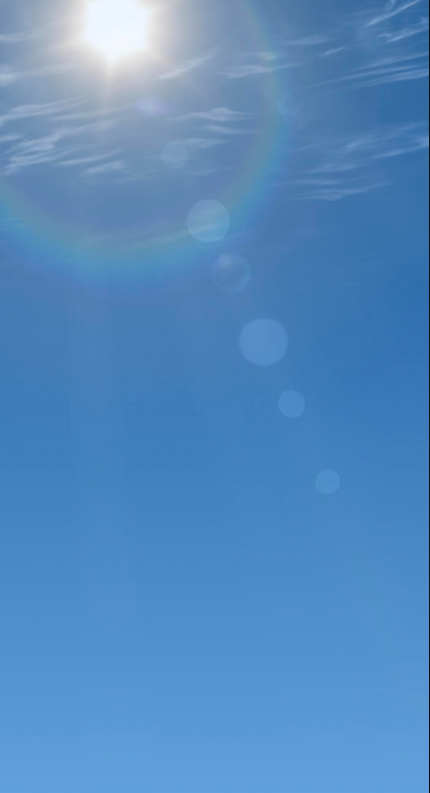
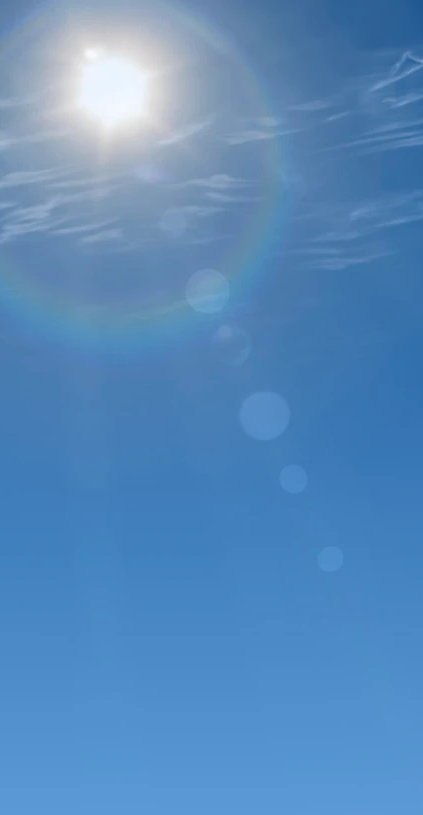
Changement du switch, il sert juste à récupérer le code du temps pour afficher les background, plus simple comme ça

diff --git a/scripts/utils/backgroundImg.js b/scripts/utils/backgroundImg.js
@@ -5,51 +5,45 @@ export default function backgroundImg(description, icon) {
   const clearSky = "./assets/clearsky.png";
   const clearSkyNight = "./assets/clearskynight.png";
   const cloudyNightBg = "./assets/cloudynight.png";
+  const drizzle = "./assets/drizzle.png";
+  const drizzleNight = "./assets/drizzlenight.png";
+  const mistBg = "./assets/mistbg.png";
+  const mistNight = "./assets/mistnight.png";
   const weatherAppBg = document.querySelector(".weather");
 
   // Switch avec les différents cas de météos ainsi que le jour et la nuit qui affichent une image de fond en conséquence
 
-  switch (description) {
-    case "couvert":
-      switch (icon) {
-        case "04n":
-          weatherAppBg.style.background = `url(${cloudyNightBg}) no-repeat`;
-          break;
-        case "04d":
-          weatherAppBg.style.background = `url(${cloudyBg}) no-repeat`;
-          break;
-        default:
-          weatherAppBg.style.background = "#000";
-      }
+  switch (icon) {
+    case "50d":
+      weatherAppBg.style.background = `url(${mistBg}) no-repeat`;
       break;
-    case "nuageux":
-      switch (icon) {
-        case "04n":
-          weatherAppBg.style.background = `url(${cloudyNightBg}) no-repeat`;
-          break;
-        case "04d":
-          weatherAppBg.style.background = `url(${cloudyBg}) no-repeat`;
-          break;
-        default:
-          weatherAppBg.style.background = "#000";
-      }
+    case "50n":
+      weatherAppBg.style.background = `url(${mistNight}) no-repeat`;
       break;
-    case "ciel dégagé":
-      switch (icon) {
-        case "01n":
-          weatherAppBg.style.background = `url(${clearSkyNight}) no-repeat`;
-          break;
-        case "01d":
-          weatherAppBg.style.background = `url(${clearSky}) no-repeat`;
-          break;
-        default:
-          weatherAppBg.style.background = "#000";
-      }
+    case "10d":
+      weatherAppBg.style.background = `url(${drizzle}) no-repeat`;
       break;
-    case "légère pluie":
+    case "10n":
+      weatherAppBg.style.background = `url(${drizzleNight}) no-repeat`;
+      break;
+    case "01n":
+      weatherAppBg.style.background = `url(${clearSkyNight}) no-repeat`;
+      break;
+    case "01d":
+      weatherAppBg.style.background = `url(${clearSky}) no-repeat`;
+      break;
+    case "04n":
+      weatherAppBg.style.background = `url(${cloudyNightBg}) no-repeat`;
+      break;
+    case "04d":
       weatherAppBg.style.background = `url(${cloudyBg}) no-repeat`;
       break;
+    case "03n":
+      weatherAppBg.style.background = `url(${cloudyNightBg}) no-repeat`;
+      break;
+    case "03d":
+      weatherAppBg.style.background = `url(${cloudyBg} no-repeat)`;
     default:
-      weatherAppBg.style.background = "none";
+      weatherAppBg.style.background = "#000";
   }
 }

diff --git a/scripts/app.js b/scripts/app.js
@@ -6,6 +6,10 @@ const cloudyBg = "./assets/cloudybg.jpg";
 const clearSky = "./assets/clearsky.png";
 const clearSkyNight = "./assets/clearskynight.png";
 const cloudyNightBg = "./assets/cloudynight.png";
+const drizzle = "./assets/drizzle.png";
+const drizzleNight = "./assets/drizzlenight.png";
+const mistBg = "./assets/mistbg.png";
+const mistNight = "./assets/mistNight.png";
 const cityInfo = document.querySelector(".weather-top-area-city");
 const tempInfo = document.querySelector(".weather-top-area-temp");
 const desc = document.querySelector(".weather-top-area-description");
@@ -58,7 +62,10 @@ const apiCall = (city) => {
           cloudyBg,
           clearSky,
           clearSkyNight,
-          cloudyNightBg
+          cloudyNightBg,
+          drizzle,
+          mistBg,
+          mistNight
         );
       }
     )
